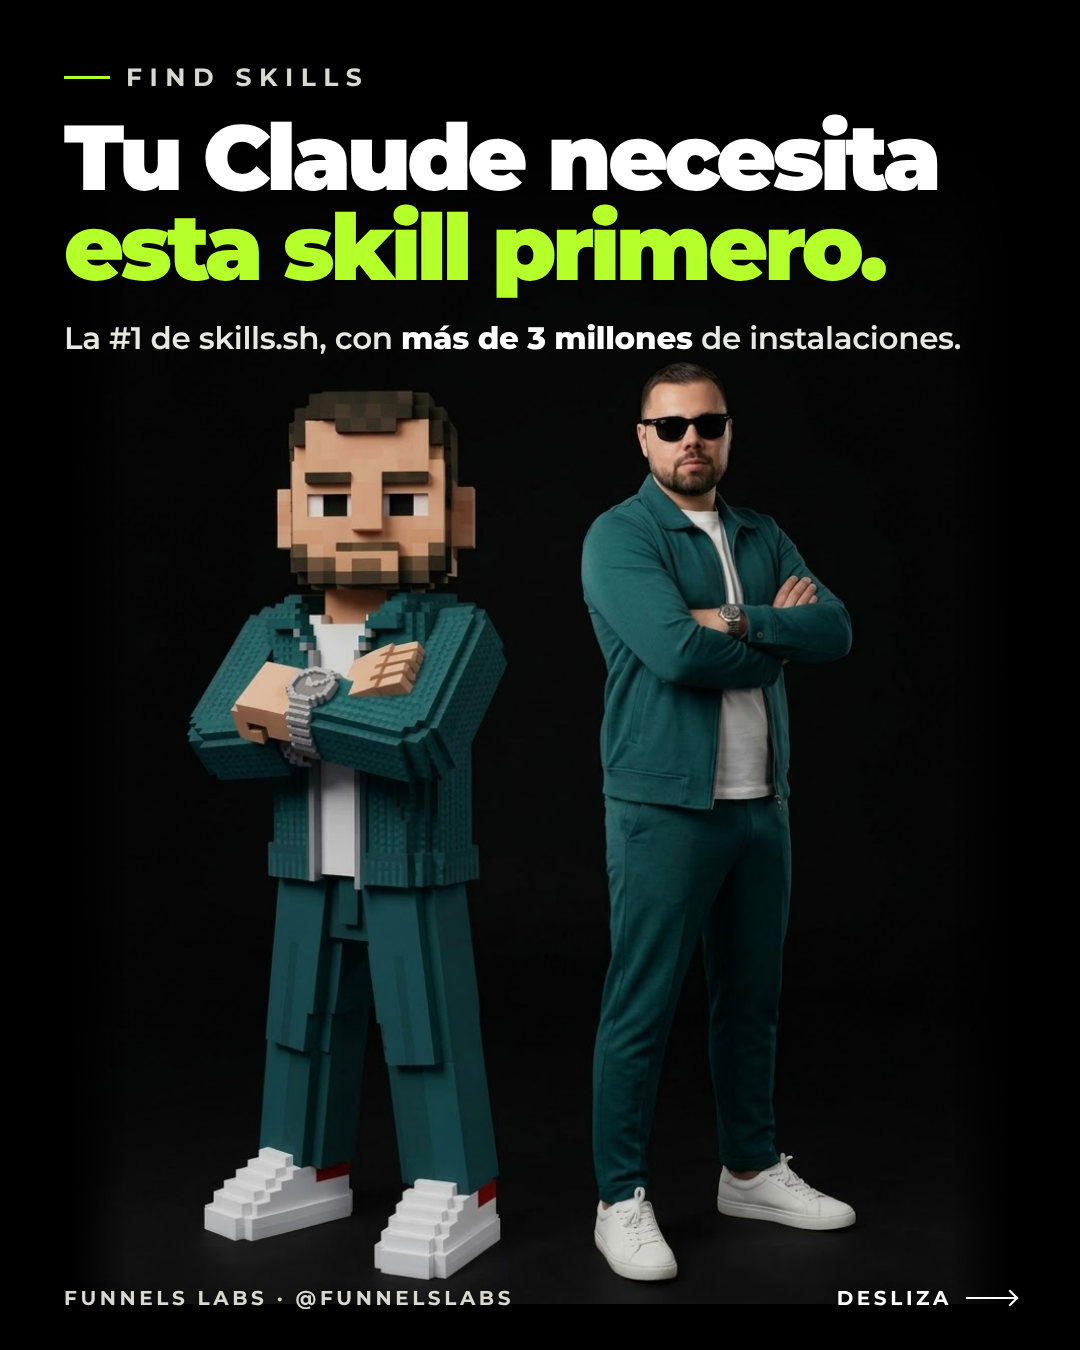
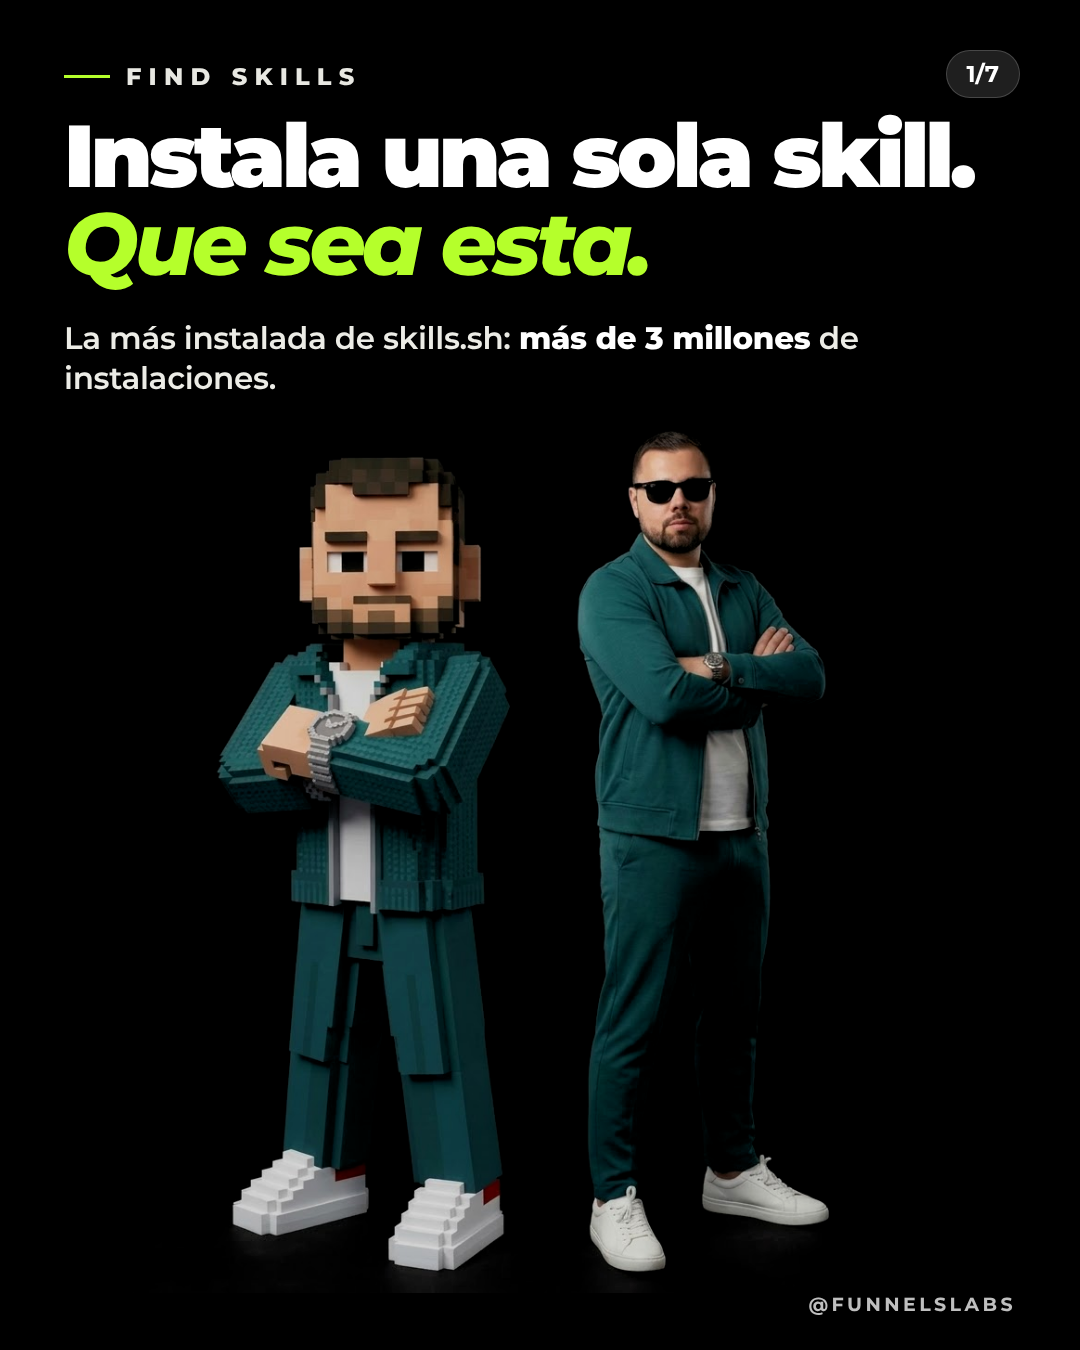
Carrusel find skills completo (7 slides) con los personajes de Funnels Labs
Claude-Session: https://claude.ai/code/session_018d4LXHkXweDJXxfN5x99dL

diff --git a/carruseles/find-skills/carrusel.html b/carruseles/find-skills/carrusel.html
@@ -1,32 +1,60 @@
-<!doctype html>
-<html lang="es"><head><meta charset="utf-8"><title>Find skills — Funnels Labs</title>
+<!doctype html><html lang="es"><head><meta charset="utf-8"><title>Find skills — Funnels Labs</title>
 <link rel="preconnect" href="https://fonts.googleapis.com"><link rel="preconnect" href="https://fonts.gstatic.com" crossorigin>
-<link href="https://fonts.googleapis.com/css2?family=Montserrat:wght@500;600;700;800;900&display=swap" rel="stylesheet">
+<link href="https://fonts.googleapis.com/css2?family=Montserrat:ital,wght@0,500;0,600;0,700;0,800;0,900;1,800&display=swap" rel="stylesheet">
 <style>
-:root{--lime:#b5ff2b;--ink:#0a0a0a}
+:root{--lime:#b5ff2b}
 *{box-sizing:border-box;margin:0;padding:0}
 body{background:#333;font-family:"Montserrat",Arial,sans-serif;display:flex;flex-direction:column;align-items:center;gap:40px;padding:40px 0}
 .slide{position:relative;width:1080px;height:1350px;background:#000;overflow:hidden;color:#fff}
-.photo{position:absolute;left:70px;bottom:46px;width:940px;height:1168px;object-fit:cover;
-  -webkit-mask-image:linear-gradient(180deg,transparent 0,#000 140px),linear-gradient(90deg,transparent 0,#000 60px,#000 calc(100% - 60px),transparent 100%);
-  -webkit-mask-composite:source-in;mask-composite:intersect;
-  mask-image:linear-gradient(180deg,transparent 0,#000 140px),linear-gradient(90deg,transparent 0,#000 60px,#000 calc(100% - 60px),transparent 100%)}
-.kick{position:absolute;left:64px;top:62px;font-weight:700;font-size:25px;letter-spacing:.3em;text-transform:uppercase;color:#d8d8d0;display:flex;align-items:center;gap:16px}
+.ph{position:absolute;-webkit-mask-image:linear-gradient(90deg,transparent 0,#000 9%,#000 91%,transparent 100%);mask-image:linear-gradient(90deg,transparent 0,#000 9%,#000 91%,transparent 100%)}
+.ph img{display:block;width:100%;height:auto}
+.bleed{position:absolute;inset:0;width:100%;height:100%;object-fit:cover}
+.shade{position:absolute;inset:0;background:linear-gradient(180deg,rgba(0,0,0,.62) 0,rgba(0,0,0,.3) 34%,rgba(0,0,0,0) 52%)}
+.n{position:absolute;top:50px;right:60px;z-index:5;background:rgba(40,40,40,.78);border:1px solid rgba(255,255,255,.18);color:#fff;font-weight:700;font-size:23px;padding:9px 20px;border-radius:99px}
+.kick{position:absolute;z-index:5;left:64px;top:62px;font-weight:800;font-size:24px;letter-spacing:.3em;text-transform:uppercase;color:#e8e8e2;display:flex;align-items:center;gap:16px}
 .kick i{width:46px;height:3px;background:var(--lime);display:block}
-.h{position:absolute;left:64px;right:64px;top:112px;font-weight:900;letter-spacing:-0.045em;line-height:.98;font-size:92px}
-.h .l{color:var(--lime)}
-.sub{position:absolute;left:64px;right:64px;top:318px;font-weight:600;font-size:31px;line-height:1.3;color:#e8e8e2;letter-spacing:-0.01em}
+.h{position:absolute;z-index:5;left:64px;right:64px;top:112px;font-weight:900;letter-spacing:-0.045em;line-height:1;text-shadow:0 4px 28px rgba(0,0,0,.45)}
+.h .l{color:var(--lime);font-style:italic;font-weight:800}
+.h .pill{display:inline-block;background:var(--lime);color:#0a0a0a;border-radius:18px;padding:0 22px 6px;margin-left:6px;text-shadow:none}
+.sub{position:absolute;z-index:5;left:64px;right:64px;top:318px;font-weight:600;font-size:31px;line-height:1.3;color:#ececE6;letter-spacing:-0.01em;text-shadow:0 2px 18px rgba(0,0,0,.6)}
 .sub b{color:#fff;font-weight:800}
-.foot{position:absolute;left:64px;right:64px;bottom:40px;display:flex;justify-content:space-between;align-items:center;font-weight:700;font-size:20px;letter-spacing:.18em;text-transform:uppercase;color:#d8d8d0;text-shadow:0 2px 12px rgba(0,0,0,.8)}
-.go{display:flex;align-items:center;gap:14px;color:#fff}.go s{width:50px;height:2px;background:#fff;position:relative}.go s::after{content:"";position:absolute;right:0;top:-5px;width:10px;height:10px;border-top:2px solid #fff;border-right:2px solid #fff;transform:rotate(45deg)}
+.panel{position:absolute;z-index:5;left:40px;right:40px;border-radius:34px;padding:12px 34px;background:linear-gradient(180deg,rgba(255,255,255,.13),rgba(255,255,255,.06));border:1.5px solid rgba(255,255,255,.24);backdrop-filter:blur(18px);-webkit-backdrop-filter:blur(18px);box-shadow:0 30px 60px -30px rgba(0,0,0,.8)}
+.row{display:flex;gap:24px;align-items:center;padding:19px 0;border-bottom:1px solid rgba(255,255,255,.2)}
+.row.last{border-bottom:0}
+.cmp .row{padding:10px 0}.cmp .note{padding-bottom:10px}
+.row .ic{flex:none;width:58px;height:58px;color:#fff;display:flex;align-items:center;justify-content:center}.row .ic svg{width:50px;height:50px}
+.row b{display:block;font-weight:800;font-size:30px;letter-spacing:-0.02em;line-height:1.15}
+.row span{display:block;font-weight:500;font-size:23px;line-height:1.3;color:#dcdcd5;margin-top:3px}
+.row code,.code{font-family:"Courier New",monospace;font-weight:700}
+.ph2{font-weight:800;font-size:30px;letter-spacing:-0.02em;padding:14px 0 8px}
+.chips{display:flex;flex-direction:column;gap:10px;align-items:flex-start;padding-bottom:16px;border-bottom:1px solid rgba(255,255,255,.2)}
+.chips span{border:1.5px solid rgba(255,255,255,.55);border-radius:99px;padding:9px 22px;font-weight:500;font-size:24px}
+.code{font-size:20px;line-height:1.35;padding:18px 4px 6px;color:#fff;word-break:break-all}
+.note{font-size:23px;font-weight:500;color:#dcdcd5;padding:4px 4px 16px;border-bottom:1px solid rgba(255,255,255,.2)}
+.foot{position:absolute;z-index:6;right:64px;bottom:34px;text-align:right;font-weight:700;font-size:19px;letter-spacing:.18em;text-transform:uppercase;color:rgba(255,255,255,.75);text-shadow:0 2px 12px rgba(0,0,0,.9)}
 </style></head><body>
-
-<section class="slide">
-  <img class="photo" src="img/personajes-brazos.jpg">
-  <div class="kick"><i></i>Find skills</div>
-  <div class="h">Tu Claude necesita<br><span class="l">esta skill primero.</span></div>
-  <div class="sub">La #1 de skills.sh, con <b>más de 3 millones</b> de instalaciones.</div>
-  <div class="foot"><span>Funnels Labs · @funnelslabs</span><span class="go">Desliza<s></s></span></div>
-</section>
-
+<section class="slide"><div class="ph" style="width:860px;top:404px;left:110px;"><img src="img/brazos-c.png"></div><div class="n">1/7</div><div class="kick"><i></i>Find skills</div><div class="h" style="font-size:88px">Instala una sola skill.<br><span class="l">Que sea esta.</span></div><div class="sub">La más instalada de skills.sh: <b>más de 3 millones</b> de instalaciones.</div><div class="foot"><span>@funnelslabs</span></div></section><section class="slide"><div class="ph" style="width:628px;top:662px;left:226px;"><img src="img/silla-lado-c.png"></div><div class="n">2/7</div><div class="kick"><i></i>Find skills</div><div class="h" style="font-size:84px">Claude no sabe<br><span class="l">qué skills existen.</span></div>
+<div class="panel" style="top:296px">
+<div class="row"><span class="ic"><svg viewBox="0 0 24 24" fill="none" stroke="currentColor" stroke-width="1.7" stroke-linecap="round" stroke-linejoin="round"><path d="M4 5.5c3-1.4 5.7-1.2 8 .6 2.3-1.8 5-2 8-.6v13c-3-1.4-5.7-1.2-8 .6-2.3-1.8-5-2-8-.6z"/><path d="M12 6.1v13"/></svg></span><div><b>Qué es una skill</b><span>Un archivo de instrucciones que le enseña una tarea nueva a Claude.</span></div></div>
+<div class="row"><span class="ic"><svg viewBox="0 0 24 24" fill="none" stroke="currentColor" stroke-width="1.7" stroke-linecap="round" stroke-linejoin="round"><circle cx="10.5" cy="10.5" r="6"/><path d="M15 15l5.5 5.5"/></svg></span><div><b>Qué hace find-skills</b><span>Busca en el catálogo la que necesitas y te ayuda a instalarla.</span></div></div>
+<div class="row last"><span class="ic"><svg viewBox="0 0 24 24" fill="none" stroke="currentColor" stroke-width="1.7" stroke-linecap="round" stroke-linejoin="round"><circle cx="12" cy="12" r="9"/><path d="M9.3 9.5a2.8 2.8 0 1 1 4.3 2.4c-.9.6-1.6 1.1-1.6 2.3"/><circle cx="12" cy="17.3" r=".6" fill="currentColor"/></svg></span><div><b>Por qué la necesitas</b><span>Sin ella, tendrías que buscar y probar skills una por una.</span></div></div>
+</div><div class="foot"><span>@funnelslabs</span></div></section><section class="slide"><div class="ph" style="width:545px;top:720px;left:267px;"><img src="img/chat-c.png"></div><div class="n">3/7</div><div class="kick"><i></i>Find skills</div><div class="h" style="font-size:84px">Dile qué necesitas,<br><span class="l">sin saber el nombre.</span></div>
+<div class="panel" style="top:296px">
+<div class="ph2">Pídeselo con tus propias palabras</div>
+<div class="chips"><span>¿Cómo respondo más rápido mis mensajes de WhatsApp?</span><span>Busca una skill para crear mis carruseles.</span><span>¿Existe una skill que revise la ortografía de mis textos?</span></div>
+<div class="row last"><span class="ic"><svg viewBox="0 0 24 24" fill="none" stroke="currentColor" stroke-width="1.7" stroke-linecap="round" stroke-linejoin="round"><path d="M12 3l7.5 3v5.5c0 4.5-3.2 8-7.5 9.5-4.3-1.5-7.5-5-7.5-9.5V6z"/><path d="M9 12l2.2 2.2L15.5 10"/></svg></span><div><b>Antes de instalarla</b><span>Revisa sus auditorías de seguridad en skills.sh. Una skill puede hacer lo mismo que tu Claude.</span></div></div>
+</div><div class="foot"><span>@funnelslabs</span></div></section><section class="slide"><img class="bleed" src="img/asfalto.png"><div class="shade"></div><div class="n">4/7</div><div class="kick"><i></i>Find skills</div><div class="h" style="font-size:96px">Una skill para<br><span class="l">encontrarlas todas.</span></div><div class="sub">Tú le dices qué necesitas. Ella busca por ti.</div><div class="foot"><span>@funnelslabs</span></div></section><section class="slide"><div class="ph" style="width:554px;top:744px;left:263px;"><img src="img/caminando-c.png"></div><div class="n">5/7</div><div class="kick"><i></i>Find skills</div><div class="h" style="font-size:84px">Instálala con<br><span class="l">un solo comando.</span></div>
+<div class="panel cmp" style="top:296px">
+<div class="code">npx skills add vercel-labs/skills --skill find-skills -a claude-code -g -y</div>
+<div class="note">Pégalo en tu terminal. Queda disponible en todos tus proyectos.</div>
+<div class="ph2" style="margin-top:8px;padding-bottom:2px">3 formas de buscar</div>
+<div class="row"><span class="ic"><svg viewBox="0 0 24 24" fill="none" stroke="currentColor" stroke-width="1.7" stroke-linecap="round" stroke-linejoin="round"><path d="M4 5h16v11H9.5L5 20v-4H4z"/></svg></span><div><b>En Claude</b><span>Pídeselo como hablas.</span></div></div>
+<div class="row"><span class="ic"><svg viewBox="0 0 24 24" fill="none" stroke="currentColor" stroke-width="1.7" stroke-linecap="round" stroke-linejoin="round"><rect x="3" y="4.5" width="18" height="15" rx="2.5"/><path d="M7 10l3 2.5L7 15M12.5 15H17"/></svg></span><div><b>En la terminal</b><span><code>npx skills find [palabra]</code></span></div></div>
+<div class="row last"><span class="ic"><svg viewBox="0 0 24 24" fill="none" stroke="currentColor" stroke-width="1.7" stroke-linecap="round" stroke-linejoin="round"><rect x="3" y="4.5" width="18" height="15" rx="2.5"/><path d="M3 9.5h18"/><circle cx="6" cy="7" r=".5" fill="currentColor"/><circle cx="8.2" cy="7" r=".5" fill="currentColor"/></svg></span><div><b>En la web</b><span>skills.sh: las más usadas y las nuevas.</span></div></div>
+</div><div class="foot"><span>@funnelslabs</span></div></section><section class="slide"><div class="ph" style="width:585px;top:690px;left:247px;"><img src="img/modelo-c.png"></div><div class="n">6/7</div><div class="kick"><i></i>Find skills</div><div class="h" style="font-size:88px">Hazla tuya,<br><span class="l">con tus reglas.</span></div>
+<div class="panel" style="top:296px">
+<div class="row"><span class="ic"><svg viewBox="0 0 24 24" fill="none" stroke="currentColor" stroke-width="1.7" stroke-linecap="round" stroke-linejoin="round"><circle cx="12" cy="12" r="9"/><path d="M10.5 9.5L12.5 8v8"/></svg></span><div><b>1 · Encuentra la skill</b><span>find-skills te muestra la que más se parece a lo que haces.</span></div></div>
+<div class="row"><span class="ic"><svg viewBox="0 0 24 24" fill="none" stroke="currentColor" stroke-width="1.7" stroke-linecap="round" stroke-linejoin="round"><path d="M4 20l1-4L16.5 4.5a2 2 0 0 1 3 3L8 19z"/><path d="M14.5 6.5l3 3"/></svg></span><div><b>2 · Pídele a Claude que la adapte</b><span>Cuéntale cómo es tu negocio y cómo trabajas.</span></div></div>
+<div class="row last"><span class="ic"><svg viewBox="0 0 24 24" fill="none" stroke="currentColor" stroke-width="1.7" stroke-linecap="round" stroke-linejoin="round"><path d="M3.5 7.5a2 2 0 0 1 2-2H10l2 2.5h6.5a2 2 0 0 1 2 2V17a2 2 0 0 1-2 2h-13a2 2 0 0 1-2-2z"/><rect x="9.5" y="12.5" width="5" height="4" rx=".8"/></svg></span><div><b>3 · Guárdala con otro nombre</b><span>Así, cuando salga una versión nueva, no pierdes tus cambios.</span></div></div>
+</div><div class="foot"><span>@funnelslabs</span></div></section><section class="slide"><div class="ph" style="width:744px;top:430px;left:168px;"><img src="img/abrazo-c.png"></div><div class="n">7/7</div><div class="kick"><i></i>Find skills</div><div class="h" style="font-size:92px">Escribe <span class="pill">SKILLS</span><br><span class="l">y te envío la guía.</span></div><div class="sub">Con el paso a paso para instalarla y adaptarla a tu negocio.</div><div class="foot"><span>@funnelslabs</span></div></section>
 </body></html>

diff --git a/carruseles/find-skills/generar.py b/carruseles/find-skills/generar.py
@@ -1,0 +1,111 @@
+import cv2, os
+os.chdir(os.path.dirname(os.path.abspath(__file__)))
+# recortes: (archivo, y0 = fila donde empieza el contenido - margen)
+CROP={'brazos':194,'silla-lado':232,'chat':172,'caminando':227,'modelo':171,'abrazo':72}
+import numpy as np
+for n,y0 in CROP.items():
+    im=cv2.imread(f'img/{n}.png')[y0:].astype(np.float32)
+    m=np.clip((im.max(2)-8)/18,0,1)[...,None]
+    cv2.imwrite(f'img/{n}-c.png',np.clip(im*m,0,255).astype(np.uint8))
+
+ICON={
+'book':'<path d="M4 5.5c3-1.4 5.7-1.2 8 .6 2.3-1.8 5-2 8-.6v13c-3-1.4-5.7-1.2-8 .6-2.3-1.8-5-2-8-.6z"/><path d="M12 6.1v13"/>',
+'search':'<circle cx="10.5" cy="10.5" r="6"/><path d="M15 15l5.5 5.5"/>',
+'help':'<circle cx="12" cy="12" r="9"/><path d="M9.3 9.5a2.8 2.8 0 1 1 4.3 2.4c-.9.6-1.6 1.1-1.6 2.3"/><circle cx="12" cy="17.3" r=".6" fill="currentColor"/>',
+'chat':'<path d="M4 5h16v11H9.5L5 20v-4H4z"/>',
+'term':'<rect x="3" y="4.5" width="18" height="15" rx="2.5"/><path d="M7 10l3 2.5L7 15M12.5 15H17"/>',
+'web':'<rect x="3" y="4.5" width="18" height="15" rx="2.5"/><path d="M3 9.5h18"/><circle cx="6" cy="7" r=".5" fill="currentColor"/><circle cx="8.2" cy="7" r=".5" fill="currentColor"/>',
+'shield':'<path d="M12 3l7.5 3v5.5c0 4.5-3.2 8-7.5 9.5-4.3-1.5-7.5-5-7.5-9.5V6z"/><path d="M9 12l2.2 2.2L15.5 10"/>',
+'pencil':'<path d="M4 20l1-4L16.5 4.5a2 2 0 0 1 3 3L8 19z"/><path d="M14.5 6.5l3 3"/>',
+'folder':'<path d="M3.5 7.5a2 2 0 0 1 2-2H10l2 2.5h6.5a2 2 0 0 1 2 2V17a2 2 0 0 1-2 2h-13a2 2 0 0 1-2-2z"/><rect x="9.5" y="12.5" width="5" height="4" rx=".8"/>',
+'one':'<circle cx="12" cy="12" r="9"/><path d="M10.5 9.5L12.5 8v8"/>',
+}
+def ic(k): return f'<svg viewBox="0 0 24 24" fill="none" stroke="currentColor" stroke-width="1.7" stroke-linecap="round" stroke-linejoin="round">{ICON[k]}</svg>'
+def row(k,t,d,last=False): return f'<div class="row{" last" if last else ""}"><span class="ic">{ic(k)}</span><div><b>{t}</b><span>{d}</span></div></div>'
+
+def photo(n,W,T,dx=0,extra=''):
+    return f'<div class="ph" style="width:{W}px;top:{T}px;left:{(1080-W)//2+dx}px;{extra}"><img src="img/{n}-c.png"></div>'
+def head(i,l1,l2,sub=None,size=88):
+    s=f'<div class="n">{i}/7</div><div class="kick"><i></i>Find skills</div><div class="h" style="font-size:{size}px">{l1}<br><span class="l">{l2}</span></div>'
+    if sub: s+=f'<div class="sub">{sub}</div>'
+    return s
+foot='<div class="foot"><span>@funnelslabs</span></div>'
+
+S=[]
+# 1 portada
+S.append(f'''<section class="slide">{photo('brazos',860,404)}{head(1,'Instala una sola skill.','Que sea esta.','La más instalada de skills.sh: <b>más de 3 millones</b> de instalaciones.',88)}{foot}</section>''')
+# 2 qué es
+S.append(f'''<section class="slide">{photo('silla-lado',628,662)}{head(2,'Claude no sabe','qué skills existen.',None,84)}
+<div class="panel" style="top:296px">
+{row('book','Qué es una skill','Un archivo de instrucciones que le enseña una tarea nueva a Claude.')}
+{row('search','Qué hace find-skills','Busca en el catálogo la que necesitas y te ayuda a instalarla.')}
+{row('help','Por qué la necesitas','Sin ella, tendrías que buscar y probar skills una por una.',True)}
+</div>{foot}</section>''')
+# 3 cuéntale
+S.append(f'''<section class="slide">{photo('chat',545,720)}{head(3,'Dile qué necesitas,','sin saber el nombre.',None,84)}
+<div class="panel" style="top:296px">
+<div class="ph2">Pídeselo con tus propias palabras</div>
+<div class="chips"><span>¿Cómo respondo más rápido mis mensajes de WhatsApp?</span><span>Busca una skill para crear mis carruseles.</span><span>¿Existe una skill que revise la ortografía de mis textos?</span></div>
+{row('shield','Antes de instalarla','Revisa sus auditorías de seguridad en skills.sh. Una skill puede hacer lo mismo que tu Claude.',True)}
+</div>{foot}</section>''')
+# 4 afirmación (asfalto a sangre)
+S.append(f'''<section class="slide"><img class="bleed" src="img/asfalto.png"><div class="shade"></div>{head(4,'Una skill para','encontrarlas todas.','Tú le dices qué necesitas. Ella busca por ti.',96)}{foot}</section>''')
+# 5 instalar
+S.append(f'''<section class="slide">{photo('caminando',554,744)}{head(5,'Instálala con','un solo comando.',None,84)}
+<div class="panel cmp" style="top:296px">
+<div class="code">npx skills add vercel-labs/skills --skill find-skills -a claude-code -g -y</div>
+<div class="note">Pégalo en tu terminal. Queda disponible en todos tus proyectos.</div>
+<div class="ph2" style="margin-top:8px;padding-bottom:2px">3 formas de buscar</div>
+{row('chat','En Claude','Pídeselo como hablas.')}
+{row('term','En la terminal','<code>npx skills find [palabra]</code>')}
+{row('web','En la web','skills.sh: las más usadas y las nuevas.',True)}
+</div>{foot}</section>''')
+# 6 hazla tuya
+S.append(f'''<section class="slide">{photo('modelo',585,690)}{head(6,'Hazla tuya,','con tus reglas.',None,88)}
+<div class="panel" style="top:296px">
+{row('one','1 · Encuentra la skill','find-skills te muestra la que más se parece a lo que haces.')}
+{row('pencil','2 · Pídele a Claude que la adapte','Cuéntale cómo es tu negocio y cómo trabajas.')}
+{row('folder','3 · Guárdala con otro nombre','Así, cuando salga una versión nueva, no pierdes tus cambios.',True)}
+</div>{foot}</section>''')
+# 7 CTA
+S.append(f'''<section class="slide">{photo('abrazo',744,430)}{head(7,'Escribe <span class="pill">SKILLS</span>','y te envío la guía.','Con el paso a paso para instalarla y adaptarla a tu negocio.',92)}{foot}</section>''')
+
+css='''
+:root{--lime:#b5ff2b}
+*{box-sizing:border-box;margin:0;padding:0}
+body{background:#333;font-family:"Montserrat",Arial,sans-serif;display:flex;flex-direction:column;align-items:center;gap:40px;padding:40px 0}
+.slide{position:relative;width:1080px;height:1350px;background:#000;overflow:hidden;color:#fff}
+.ph{position:absolute;-webkit-mask-image:linear-gradient(90deg,transparent 0,#000 9%,#000 91%,transparent 100%);mask-image:linear-gradient(90deg,transparent 0,#000 9%,#000 91%,transparent 100%)}
+.ph img{display:block;width:100%;height:auto}
+.bleed{position:absolute;inset:0;width:100%;height:100%;object-fit:cover}
+.shade{position:absolute;inset:0;background:linear-gradient(180deg,rgba(0,0,0,.62) 0,rgba(0,0,0,.3) 34%,rgba(0,0,0,0) 52%)}
+.n{position:absolute;top:50px;right:60px;z-index:5;background:rgba(40,40,40,.78);border:1px solid rgba(255,255,255,.18);color:#fff;font-weight:700;font-size:23px;padding:9px 20px;border-radius:99px}
+.kick{position:absolute;z-index:5;left:64px;top:62px;font-weight:800;font-size:24px;letter-spacing:.3em;text-transform:uppercase;color:#e8e8e2;display:flex;align-items:center;gap:16px}
+.kick i{width:46px;height:3px;background:var(--lime);display:block}
+.h{position:absolute;z-index:5;left:64px;right:64px;top:112px;font-weight:900;letter-spacing:-0.045em;line-height:1;text-shadow:0 4px 28px rgba(0,0,0,.45)}
+.h .l{color:var(--lime);font-style:italic;font-weight:800}
+.h .pill{display:inline-block;background:var(--lime);color:#0a0a0a;border-radius:18px;padding:0 22px 6px;margin-left:6px;text-shadow:none}
+.sub{position:absolute;z-index:5;left:64px;right:64px;top:318px;font-weight:600;font-size:31px;line-height:1.3;color:#ececE6;letter-spacing:-0.01em;text-shadow:0 2px 18px rgba(0,0,0,.6)}
+.sub b{color:#fff;font-weight:800}
+.panel{position:absolute;z-index:5;left:40px;right:40px;border-radius:34px;padding:12px 34px;background:linear-gradient(180deg,rgba(255,255,255,.13),rgba(255,255,255,.06));border:1.5px solid rgba(255,255,255,.24);backdrop-filter:blur(18px);-webkit-backdrop-filter:blur(18px);box-shadow:0 30px 60px -30px rgba(0,0,0,.8)}
+.row{display:flex;gap:24px;align-items:center;padding:19px 0;border-bottom:1px solid rgba(255,255,255,.2)}
+.row.last{border-bottom:0}
+.cmp .row{padding:10px 0}.cmp .note{padding-bottom:10px}
+.row .ic{flex:none;width:58px;height:58px;color:#fff;display:flex;align-items:center;justify-content:center}.row .ic svg{width:50px;height:50px}
+.row b{display:block;font-weight:800;font-size:30px;letter-spacing:-0.02em;line-height:1.15}
+.row span{display:block;font-weight:500;font-size:23px;line-height:1.3;color:#dcdcd5;margin-top:3px}
+.row code,.code{font-family:"Courier New",monospace;font-weight:700}
+.ph2{font-weight:800;font-size:30px;letter-spacing:-0.02em;padding:14px 0 8px}
+.chips{display:flex;flex-direction:column;gap:10px;align-items:flex-start;padding-bottom:16px;border-bottom:1px solid rgba(255,255,255,.2)}
+.chips span{border:1.5px solid rgba(255,255,255,.55);border-radius:99px;padding:9px 22px;font-weight:500;font-size:24px}
+.code{font-size:20px;line-height:1.35;padding:18px 4px 6px;color:#fff;word-break:break-all}
+.note{font-size:23px;font-weight:500;color:#dcdcd5;padding:4px 4px 16px;border-bottom:1px solid rgba(255,255,255,.2)}
+.foot{position:absolute;z-index:6;right:64px;bottom:34px;text-align:right;font-weight:700;font-size:19px;letter-spacing:.18em;text-transform:uppercase;color:rgba(255,255,255,.75);text-shadow:0 2px 12px rgba(0,0,0,.9)}
+'''
+html=f'''<!doctype html><html lang="es"><head><meta charset="utf-8"><title>Find skills — Funnels Labs</title>
+<link rel="preconnect" href="https://fonts.googleapis.com"><link rel="preconnect" href="https://fonts.gstatic.com" crossorigin>
+<link href="https://fonts.googleapis.com/css2?family=Montserrat:ital,wght@0,500;0,600;0,700;0,800;0,900;1,800&display=swap" rel="stylesheet">
+<style>{css}</style></head><body>
+{''.join(S)}
+</body></html>'''
+open('carrusel.html','w').write(html)

diff --git a/carruseles/find-skills/caption.md b/carruseles/find-skills/caption.md
@@ -1,0 +1,5 @@
+Tu Claude no sabe qué skills existen. Esta se las busca por ti.
+
+Comenta "SKILLS" y te envío la guía para instalarla y adaptarla a tu negocio.
+
+#claude #inteligenciaartificial #funnelslabs
